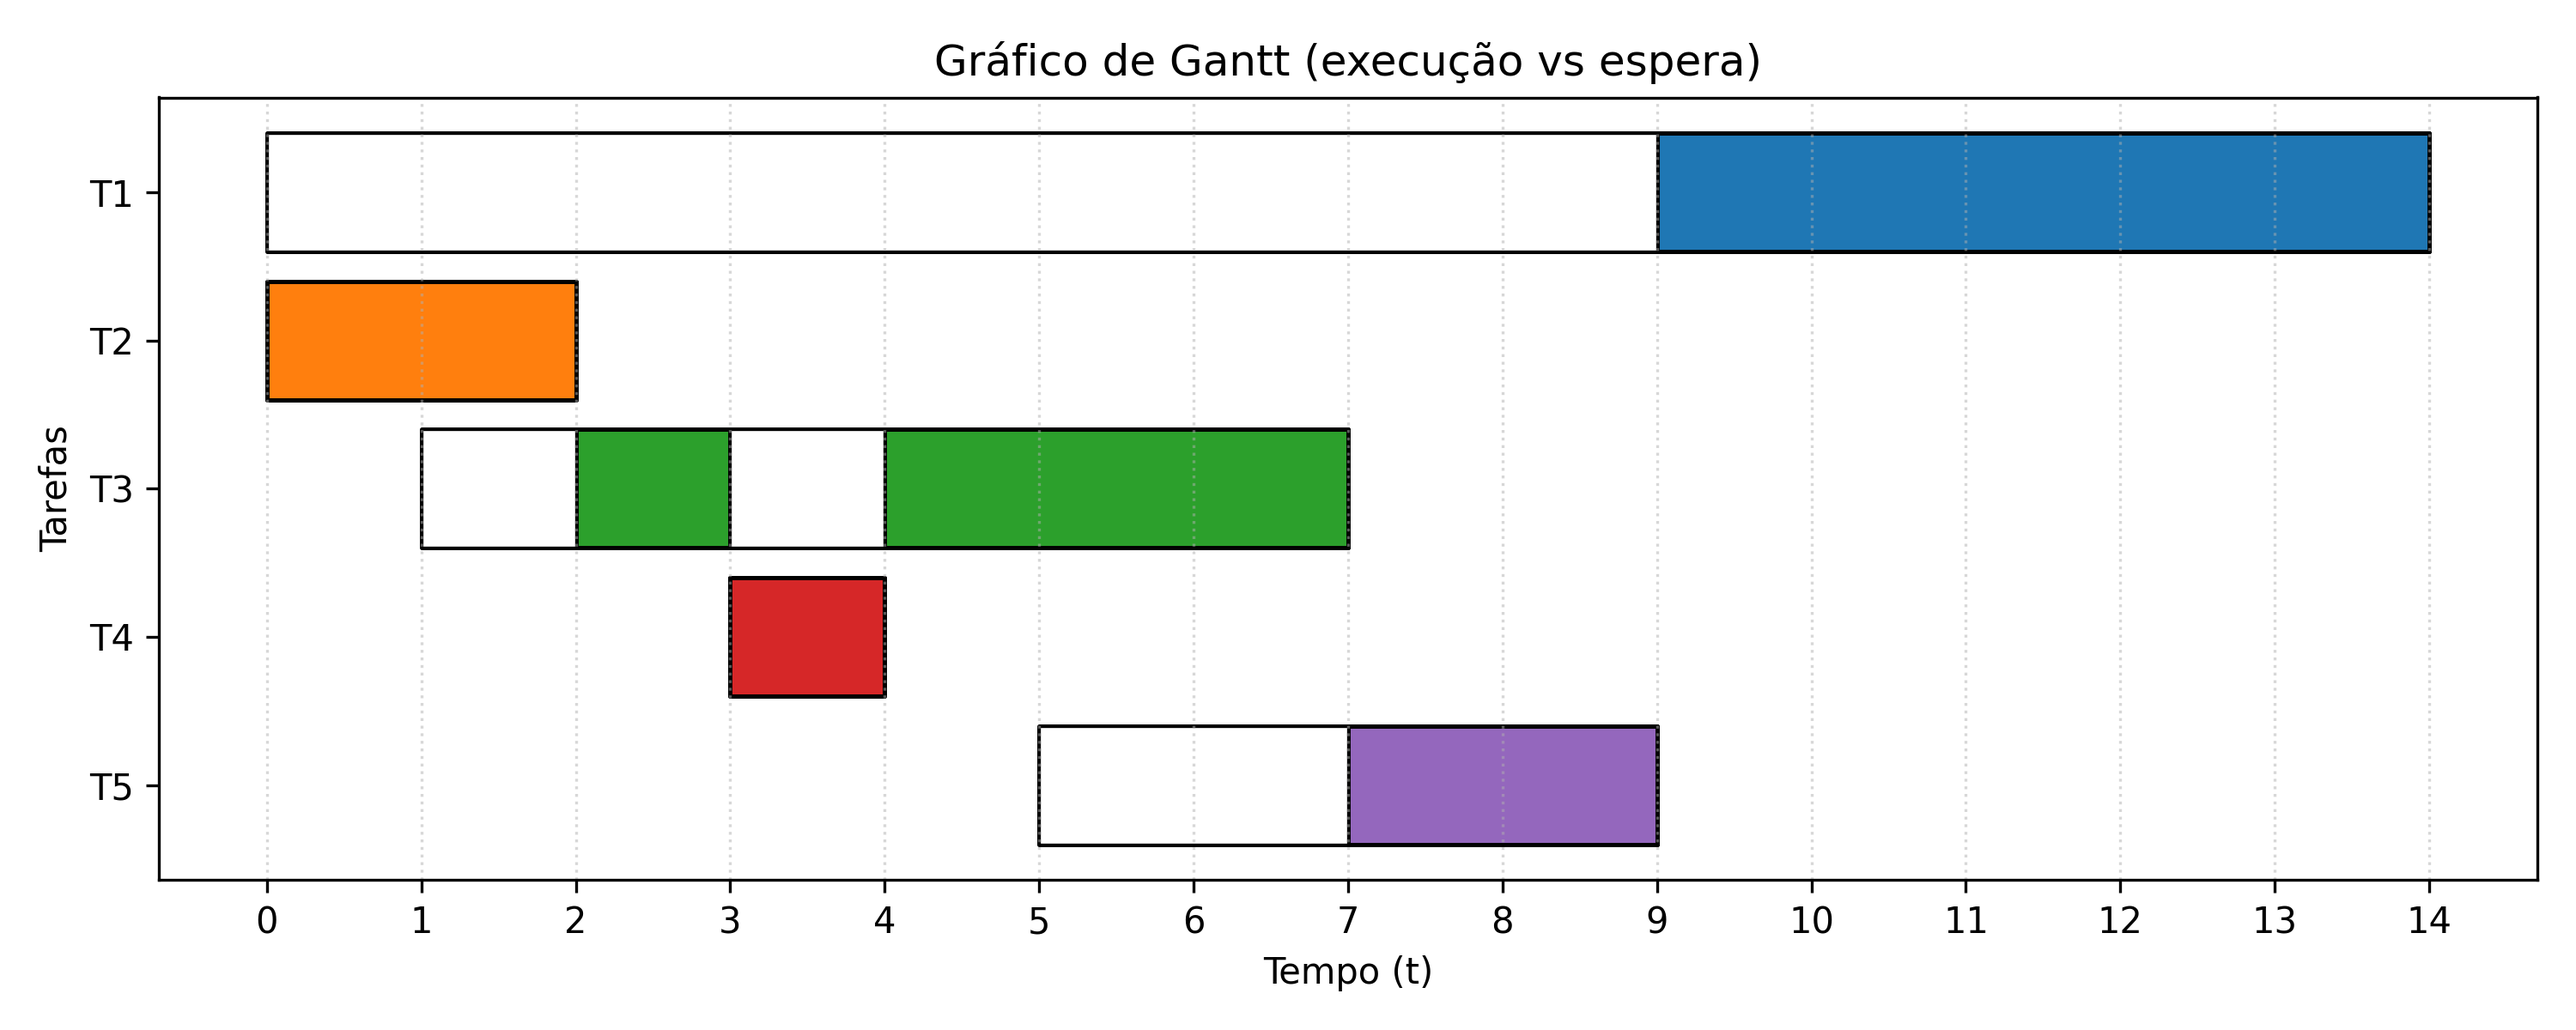
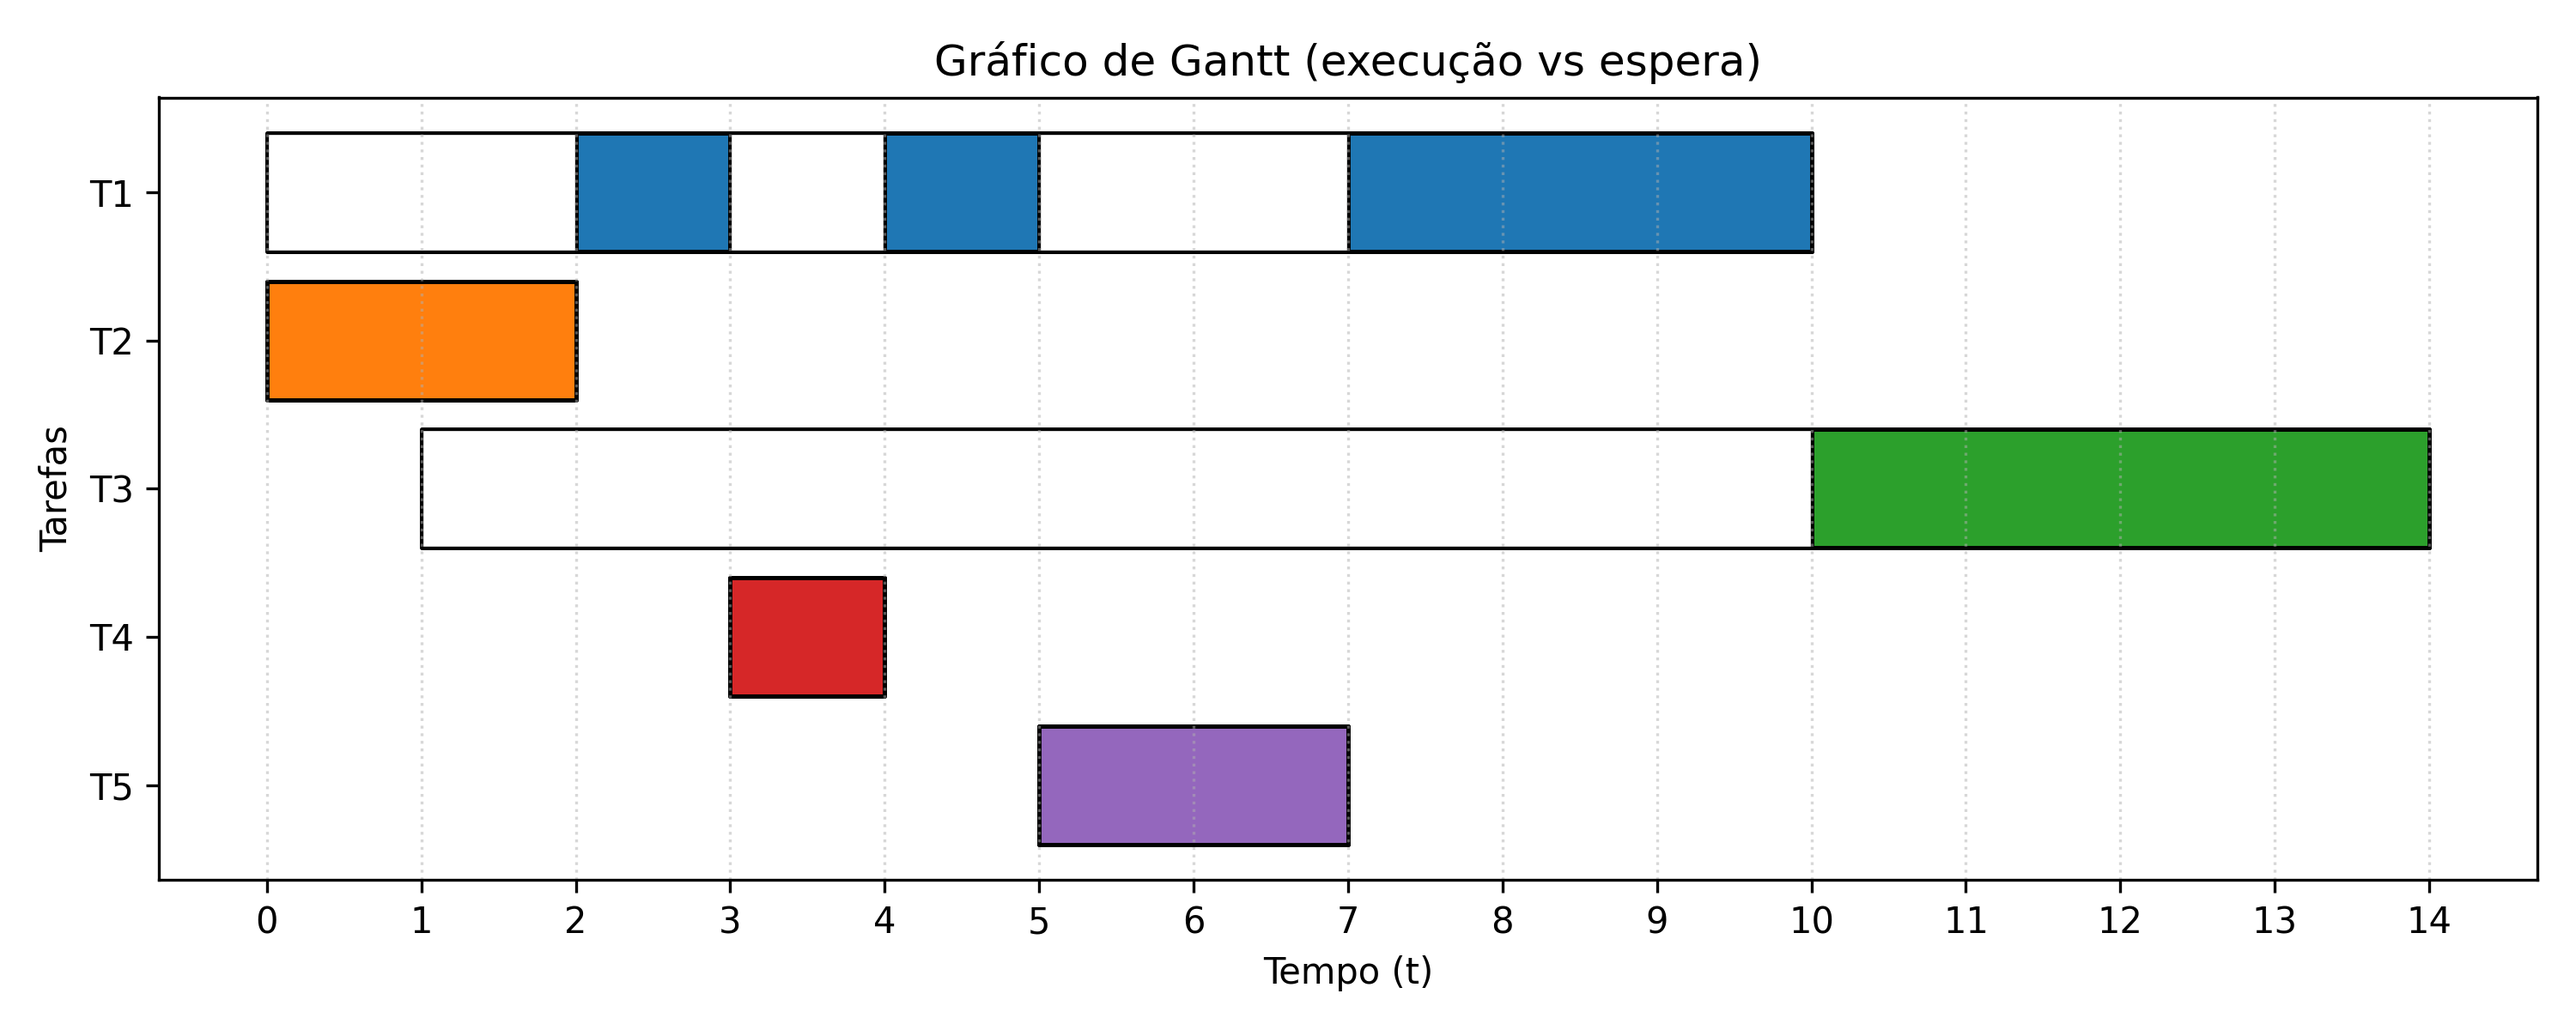
refactor simulator to get abstract

diff --git a/simulator.py b/simulator.py
@@ -82,27 +82,21 @@ class Simulator:
                     self.ready_queue.remove(self.running_task)
             return
 
-        # Preempção imediata para algoritmos preemptivos (ex: SRTF)
+        # Preempção imediata delegada ao scheduler (should_preempt)
         if getattr(self.scheduler, 'preemptive', False):
             candidate = self.scheduler(self.ready_queue)
             if candidate and candidate is not self.running_task:
-                do_switch = False
-                # Regra SRTF: menor remaining_time
-                if hasattr(self.scheduler, 'preemptive') and getattr(self.scheduler, 'ignore_quantum', False) and not getattr(self.scheduler, 'priority_preemptive', False):
-                    if candidate.remaining_time < self.running_task.remaining_time:
-                        do_switch = True
-                # Regra PRIOP: maior prioridade preempta imediatamente
-                if getattr(self.scheduler, 'priority_preemptive', False):
-                    if candidate.priority > self.running_task.priority:
-                        do_switch = True
-                if do_switch:
+                should_switch = False
+                if hasattr(self.scheduler, 'should_preempt'):
+                    should_switch = self.scheduler.should_preempt(self.running_task, candidate)
+                if should_switch:
                     if self.running_task not in self.ready_queue and not self.running_task.completed:
                         self.ready_queue.append(self.running_task)
                     self.running_task.executed_quantum = 0
-                    self.running_task = candidate
+                    # Remover candidata da fila e promover
                     if candidate in self.ready_queue:
-                        self.running_task.executed_quantum = 0
                         self.ready_queue.remove(candidate)
+                    self.running_task = candidate
 
     def apply_aging(self):
         for task in self.ready_queue:

diff --git a/scheduler.py b/scheduler.py
@@ -13,13 +13,14 @@ def srtf_scheduler(ready_queue):
     return min(ready_queue, key=lambda t: t.remaining_time, default=None)
 srtf_scheduler.preemptive = True
 srtf_scheduler.ignore_quantum = True  # SRTF decide por menor tempo restante, não por quantum
+srtf_scheduler.should_preempt = lambda current, candidate: candidate and current and candidate.remaining_time < current.remaining_time
 
 def priority_preemptive_scheduler(ready_queue):
-    # Mesmo critério, mas marcado como preemptivo
     return max(ready_queue, key=lambda t: t.priority, default=None)
 priority_preemptive_scheduler.preemptive = True
 priority_preemptive_scheduler.ignore_quantum = True
 priority_preemptive_scheduler.priority_preemptive = True
+priority_preemptive_scheduler.should_preempt = lambda current, candidate: candidate and current and candidate.priority > current.priority
 
 def get_scheduler(algorithm):
     if algorithm.upper() == "FIFO":
